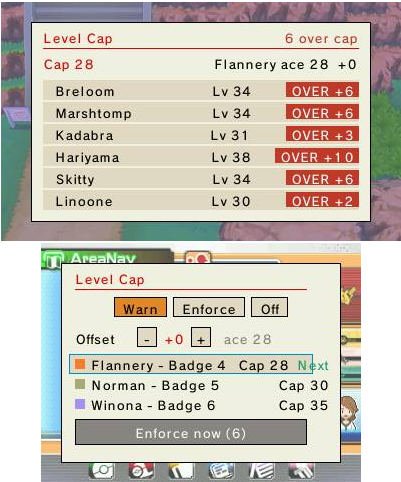
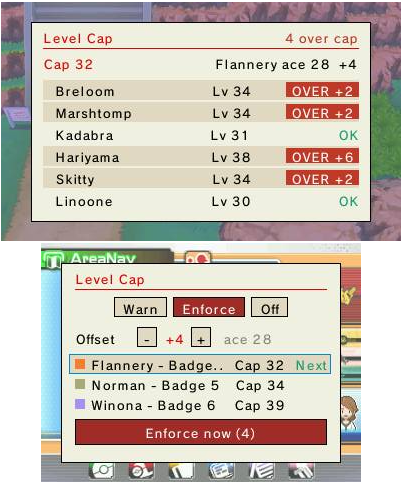
v0.7.7 polish: Level Cap confirm overlay, layout & note fixes
- New custom colored Enforce confirmation (the framework MessageBox
  couldn't color text and clipped it): red header, word-wrapped
  question, colored count->level summary, tappable Yes/No.
- Bottom-screen layout: rule to symmetric margin, Enforce centered,
  Cap column aligned, selection highlight hugs the row, long gym names
  clip so they never overlap the cap.
- Party level/EXP edits route through WritePartyMemberFull (write the
  level tail, not body-only). Toast + (i) note + release notes now
  explain it applies+saves immediately and the on-screen party level
  refreshes after the next battle / PC-box visit.
- (i) note reflowed into shorter paragraphs; Config HUD label is now
  just "Level cap" (dropped "Show:"); confirm string spacing fixed.
- Add the Enforce confirmation screenshot.

diff --git a/Sources/PKHeX.cpp b/Sources/PKHeX.cpp
@@ -894,6 +894,14 @@ namespace CTRPluginFramework {
         // game keeps for menus (writes there never reach the real party/save). All party reads/writes stride
         // by this so both the fixed base (0x1E4) and the fallback scan (0x104) stay self-consistent.
         static u32  gPartyStride = 0x1E4;
+        // The DECRYPTED 0x104-packed MIRROR the game rebuilds for its overworld party MENU on a "party reload"
+        // event (enter/leave a battle, deposit/withdraw at the PC). Our authoritative write (fixed base, 0x1E4)
+        // persists to the save, but the on-screen level/stats read this mirror and stay stale until such an
+        // event — so after a party write we ALSO refresh this mirror so the change shows immediately. It's a
+        // volatile display copy (NOT the save): a wrong write self-heals on the game's next rebuild.
+        static u32  gPartyMirrorBase = 0;      // 0 = not located; located lazily by FindPartyMirrorBase()
+        static bool gPartyMirrorEncrypted = true;
+        static bool gPartyMirrorScanned = false; // scanned once per session (found or not)
         // SAFETY GATE for party identity WRITES (Swap commit into a party slot, Party-edit save-to-party).
         // Fase 1 kept this false to verify the fixed address/stride/encryption read-only. HW-confirmed the
         // reads on 2026-07-06 → Fase 2 flips it true so party writes hit the authoritative party.
@@ -1030,6 +1038,79 @@ namespace CTRPluginFramework {
             }
 
             return 0; // not found
+        }
+
+        // Locate the DECRYPTED 0x104-packed party MIRROR the game keeps for its overworld menu (see gPartyMirrorBase).
+        // Read-only, scanned once per session. Same ±512KB / TID-SID / 0x104-run scan the FindPartyBase fallback uses,
+        // but it runs ALWAYS (independent of the fixed authoritative base) and EXCLUDES the PC box block AND the
+        // authoritative fixed party region, so it lands on the distinct menu mirror. Returns 0 if not present.
+        u32 FindPartyMirrorBase(void) {
+            if (gPartyMirrorScanned) return gPartyMirrorBase;
+            gPartyMirrorScanned = true;
+
+            const u32 boxBase = AutoGameSet((u32)0x8C861C8, (u32)0x8C9E134);
+            const u32 authBase = AutoGameSet((u32)0x8CE1CF8, (u32)0x8CFB26C); // fixed authoritative party to exclude
+            u16 tid = 0, sid = 0;
+            PK6 boxpk;
+            if (GetPokemon(boxBase, &boxpk)) { tid = boxpk.TID; sid = boxpk.SID; }
+            if (tid == 0 && sid == 0) ReadPlayerTrainerID(tid, sid);
+            if (tid == 0 && sid == 0) return 0;
+
+            const u32 SLOT = 0x104;
+            const u32 BOX_SPAN = 31u * 30u * 0xE8;
+            const u32 scanStart = boxBase - 0x80000;
+            const u32 scanEnd   = boxBase + 0x80000;
+            const u32 CHUNK = 0x8000;
+            static u8 buf[CHUNK];
+            static u32 matchAddr[256];
+            static u8  matchEnc[256];
+            int n = 0;
+
+            auto excluded = [&](u32 X) -> bool {
+                if (X >= boxBase && X < boxBase + BOX_SPAN) return true;       // PC box block
+                if (X >= authBase && X < authBase + 6u * 0x1E4) return true;   // authoritative party
+                return false;
+            };
+
+            for (u32 chunk = scanStart; chunk + SLOT < scanEnd && n < 256; chunk += (CHUNK - SLOT)) {
+                if (!Process::CopyMemory(buf, (u8*)chunk, CHUNK)) continue;
+                for (u32 off = 0; off + SLOT <= CHUNK && n < 256; off += 4) {
+                    if (*(u32*)(buf + off) == 0)        continue;
+                    if (*(u16*)(buf + off + 0x04) != 0) continue;
+                    u32 X = chunk + off;
+                    if (excluded(X)) continue;
+                    bool owned = false, enc = false;
+                    u16 sp = *(u16*)(buf + off + 0x08), t = *(u16*)(buf + off + 0x0C), s = *(u16*)(buf + off + 0x0E);
+                    if (sp >= 1 && sp <= 721 && t == tid && s == sid) { owned = true; enc = false; }
+                    if (!owned) { PK6 pk; if (GetPokemon(X, &pk) && pk.TID == tid && pk.SID == sid) { owned = true; enc = true; } }
+                    if (!owned) continue;
+                    matchAddr[n] = X; matchEnc[n] = enc; n++;
+                }
+            }
+
+            // The mirror is the longest run of owned mons at exactly 0x104 stride; tie -> lowest address.
+            auto ownedIdx = [&](u32 a) -> int { for (int k = 0; k < n; k++) if (matchAddr[k] == a) return k; return -1; };
+            int bestIdx = -1, bestRun = 0;
+            for (int i = 0; i < n; i++) {
+                if (ownedIdx(matchAddr[i] + SLOT) < 0) continue;
+                int run = 1;
+                while (run < 6 && ownedIdx(matchAddr[i] + (u32)run * SLOT) >= 0) run++;
+                if (run > bestRun || (run == bestRun && bestIdx >= 0 && matchAddr[i] < matchAddr[bestIdx])) { bestRun = run; bestIdx = i; }
+            }
+            if (bestIdx < 0) return 0; // no 0x104 pair -> no menu mirror in this state; skip (fallback note covers it)
+
+            // Walk backward over contiguous valid PK6 slots (any OT) to land on the mirror's slot 0.
+            gPartyMirrorEncrypted = matchEnc[bestIdx];
+            u32 b = matchAddr[bestIdx];
+            { PK6 tmp;
+              for (int back = 0; back < 6 && b >= scanStart + SLOT; back++) {
+                  u32 prev = b - SLOT;
+                  bool ok = gPartyMirrorEncrypted ? GetPokemon(prev, &tmp) : GetPokemonRaw(prev, &tmp);
+                  if (!(ok && tmp.species >= 1 && tmp.species <= 721)) break;
+                  b = prev;
+              } }
+            gPartyMirrorBase = b;
+            return gPartyMirrorBase;
         }
 
         // Count occupied slots in the overworld party (same source the View Party Summary viewer uses: the
@@ -1176,12 +1257,14 @@ namespace CTRPluginFramework {
         // the change persists to save. An empty/invalid species clears the party-PK6 region of the slot.
         // Tail offsets (plaintext, absolute within the slot) match RefillPartyOverworld: 0xE8 status(u32),
         // 0xEC level(u8), 0xF0 curHP, 0xF2 maxHP, 0xF4 Atk, 0xF6 Def, 0xF8 Spe, 0xFA SpA, 0xFC SpD.
-        static bool WritePartyMemberFull(u32 addr, PK6 &pk) {
+        // Low-level: write ONE 0x104-based party slot (used for both the authoritative party AND the menu mirror).
+        // Body via SetPokemon/SetPokemonRaw (enc-aware) + the recomputed plaintext tail. Empty species clears it.
+        static bool WritePartySlot(u32 addr, PK6 &pk, bool enc) {
             if (pk.species < 1 || pk.species > 721) {
                 static const u8 zero[0x104] = {0};
                 return Process::Patch(addr, (u8*)zero, 0x104); // clear body + stat tail
             }
-            bool ok = gPartyEncrypted ? SetPokemon(addr, &pk) : SetPokemonRaw(addr, &pk); // body [0..0xE7]
+            bool ok = enc ? SetPokemon(addr, &pk) : SetPokemonRaw(addr, &pk); // body [0..0xE7]
             if (!ok) return false;
             int level = LevelFromExp(pk.species, pk.exp);
             u16 st[6]; CalcStats(pk.species, level, pk.nature, pk.iv32, pk.EV, st); // display order HP,Atk,Def,SpA,SpD,Spe
@@ -1195,6 +1278,19 @@ namespace CTRPluginFramework {
             Process::Write16(addr + 0xFA, st[3]);        // SpA
             Process::Write16(addr + 0xFC, st[4]);        // SpD
             return true;
+        }
+        static bool WritePartyMemberFull(u32 addr, PK6 &pk) {
+            bool ok = WritePartySlot(addr, pk, gPartyEncrypted);
+            // Also refresh the game's overworld-menu MIRROR (see gPartyMirrorBase) at the SAME slot, so a level/
+            // stat/species edit shows in the in-game party menu IMMEDIATELY instead of only after the next battle
+            // or PC-box visit. The mirror is a volatile display copy, not the save, so a stray write self-heals.
+            if (ok && PARTY_WRITE_ENABLED && gPartyBase && addr >= gPartyBase && addr < gPartyBase + 6u * gPartyStride) {
+                int slot = (int)((addr - gPartyBase) / gPartyStride);
+                u32 mbase = FindPartyMirrorBase();
+                if (mbase && slot >= 0 && slot < 6)
+                    WritePartySlot(mbase + (u32)slot * 0x104, pk, gPartyMirrorEncrypted);
+            }
+            return ok;
         }
 
         // ---- Pokemon type chips (colored badges). Index 0=None..18=Fairy (matches gMoveExtra / spawnerType1-2). ----
@@ -4186,7 +4282,30 @@ namespace CTRPluginFramework {
             static int viewIdx = 0, viewScroll = 0;
 
             bool wasDown = false, armed = false; UIntVector lastPos = Touch::GetPosition();
+            bool confirming = false; int cfOver = 0, cfCap = 0; // custom colored Enforce confirm overlay
             drainKeys();
+
+            // Draw a list of colored segments centered on `scrW` at row y. Handles our own centering + color
+            // (a plain MessageBox can't color inline and clipped the confirm text).
+            auto centerSegs = [&](const Screen &scr, int scrW, int y, const std::vector<std::pair<string, Color>> &segs) {
+                int w = 0; for (auto &s : segs) w += (int)OSD::GetTextWidth(true, s.first);
+                int x = (scrW - w) / 2;
+                for (auto &s : segs) { scr.DrawSysfont(s.second << s.first, x, y, s.second); x += (int)OSD::GetTextWidth(true, s.first); }
+            };
+            // Word-wrap `s` to lines no wider than maxW px.
+            auto wrapWords = [&](const string &s, int maxW) -> std::vector<string> {
+                std::vector<string> lines; string cur; size_t i = 0;
+                while (i <= s.size()) {
+                    size_t sp = s.find(' ', i);
+                    string word = s.substr(i, sp == string::npos ? string::npos : sp - i);
+                    string cand = cur.empty() ? word : cur + " " + word;
+                    if ((int)OSD::GetTextWidth(true, cand) > maxW && !cur.empty()) { lines.push_back(cur); cur = word; }
+                    else cur = cand;
+                    if (sp == string::npos) break; i = sp + 1;
+                }
+                if (!cur.empty()) lines.push_back(cur);
+                return lines;
+            };
 
             while (true) {
                 Controller::Update();
@@ -4195,6 +4314,49 @@ namespace CTRPluginFramework {
                     while (Controller::IsKeyDown(Key::Select)) { Controller::Update(); OSD::SwapBuffers(); }
                     PluginMenu::Close(); break;
                 }
+
+                // ===== Enforce confirmation overlay (custom, colored, centered) =====
+                if (confirming) {
+                    bool cdown = Touch::IsDown(); if (cdown) lastPos = Touch::GetPosition();
+                    bool ctap = armed && !cdown && wasDown; if (!cdown) armed = true; wasDown = cdown;
+                    const int byY = 152, byH = 40, yesX = 44, yesW = 108, noX = 168, noW = 108;
+                    bool doYes = Controller::IsKeyPressed(Key::A) || (ctap && inBox(lastPos, yesX, byY, yesW, byH));
+                    bool doNo  = Controller::IsKeyPressed(Key::B) || (ctap && inBox(lastPos, noX,  byY, noW,  byH));
+                    if (doYes) {
+                        int n = ClampPartyToCap(cfCap);
+                        string msg = Utils::Format(getLanguage->Get("LC_ENFORCED_FMT").c_str(), n, cfCap);
+                        // Always tell the player how it lands in-game: applied + saved now, but the party menu's
+                        // on-screen level refreshes after the next battle or PC-box visit (the game rebuilds it then).
+                        if (n > 0) msg += string("\n") + getLanguage->Get("LC_APPLIED_NOTE");
+                        OSD::Notify(msg);
+                        confirming = false; drainKeys(); armed = false; wasDown = false;
+                    } else if (doNo) { confirming = false; drainKeys(); armed = false; wasDown = false; }
+
+                    // TOP: a centered modal card with a red header + word-wrapped question + a colored summary.
+                    top.DrawRect(48, 46, 304, 150, bg, true); top.DrawRect(48, 46, 304, 150, enfC, false); top.DrawRect(49, 47, 302, 148, enfC, false);
+                    top.DrawRect(48, 46, 304, 24, enfC, true);
+                    { string t = getLanguage->Get("LC_ENFORCE_TITLE"); top.DrawSysfont(AutoContrastText(enfC) << t, (400 - (int)OSD::GetTextWidth(true, t)) / 2, 51, AutoContrastText(enfC)); }
+                    {
+                        string q = Utils::Format(getLanguage->Get("LC_CONFIRM_ENFORCE_FMT").c_str(), cfOver, cfCap);
+                        for (size_t p; (p = q.find("\\n")) != string::npos; ) q.replace(p, 2, " "); // flatten stored breaks; we wrap ourselves
+                        std::vector<string> ln = wrapWords(q, 272);
+                        int y = 84; for (size_t i = 0; i < ln.size() && i < 3; ++i) { top.DrawSysfont(txt << ln[i], (400 - (int)OSD::GetTextWidth(true, ln[i])) / 2, y, txt); y += 18; }
+                    }
+                    centerSegs(top, 400, 150, { {to_string(cfOver), overC}, {"  >  ", mutedC}, {string("Lv ") + to_string(cfCap), okC} });
+
+                    // BOTTOM: big Yes / No buttons (tappable) + key hints.
+                    bot.DrawRect(20, 20, 280, 200, bg, true); bot.DrawRect(20, 20, 280, 200, border, false);
+                    bot.DrawSysfont(title << getLanguage->Get("LC_ENFORCE_TITLE"), 34, 40, title);
+                    { Color etc = AutoContrastText(okC); bot.DrawRect(yesX, byY, yesW, byH, okC, true); bot.DrawRect(yesX, byY, yesW, byH, border, false);
+                      string y = getLanguage->Get("NOTE_YES"); bot.DrawSysfont(etc << y, yesX + (yesW - (int)OSD::GetTextWidth(true, y)) / 2, byY + 13, etc); }
+                    { Color ntc = AutoContrastText(mutedC); bot.DrawRect(noX, byY, noW, byH, mutedC, true); bot.DrawRect(noX, byY, noW, byH, border, false);
+                      string nn = getLanguage->Get("NOTE_NO"); bot.DrawSysfont(ntc << nn, noX + (noW - (int)OSD::GetTextWidth(true, nn)) / 2, byY + 13, ntc); }
+                    { string h = "A / B"; bot.DrawSysfont(mutedC << h, (320 - (int)OSD::GetTextWidth(true, h)) / 2, byY + byH + 6, mutedC); }
+
+                    OSD::SwapBuffers();
+                    continue;
+                }
+
                 if (Controller::IsKeyPressed(Key::B)) break;
 
                 // Offset quick-adjust with the D-pad too (touch buttons below do the same). Offset is stored
@@ -4259,7 +4421,7 @@ namespace CTRPluginFramework {
                 { int gap = 6, tot = 0; for (int i = 0; i < 3; ++i) { pillW[i] = (int)OSD::GetTextWidth(true, getLanguage->Get(modes[i].key)) + 18; tot += pillW[i]; } tot += gap * 2;
                   int sx = 20 + (280 - tot) / 2; for (int i = 0; i < 3; ++i) { pillX[i] = sx; sx += pillW[i] + gap; } }
                 const int offY = 84, minusX = 96, plusX = 150, offBtnW = 20;
-                const int enfX = 34, enfY = 176, enfW = 232, enfH = 26;
+                const int enfX = 34, enfY = 176, enfW = 252, enfH = 26; // 252 = 34..286 (symmetric 14px margins) -> centered on the 280-wide panel
                 bool enfActive = (g_levelCapMode == 1 && over > 0 && cap > 0);
 
                 // ---- input: touch ----
@@ -4271,11 +4433,8 @@ namespace CTRPluginFramework {
                     if (inBox(lastPos, plusX,  offY, offBtnW, 20) && g_levelCapOffset < 16) SetLevelCapOffset(g_levelCapOffset + 1);
                     for (int r = 0; r < GVIS && r < nUp; ++r) { int gy = GY0 + r * GRH; if (inBox(lastPos, 28, gy - 1, 244, GRH)) viewIdx = viewScroll + r; }
                     if (enfActive && inBox(lastPos, enfX, enfY, enfW, enfH)) {
-                        string q = Utils::Format(getLanguage->Get("LC_CONFIRM_ENFORCE_FMT").c_str(), over, cap);
-                        if (MessageBox(CenterAlign(q), DialogType::DialogYesNo, ClearScreen::Both)()) {
-                            int n = ClampPartyToCap(cap);
-                            OSD::Notify(Utils::Format(getLanguage->Get("LC_ENFORCED_FMT").c_str(), n, cap));
-                        }
+                        // Open the custom colored confirm overlay (handled at the top of the loop).
+                        confirming = true; cfOver = over; cfCap = cap;
                         drainKeys(); armed = false; wasDown = false;
                     }
                 }
@@ -4327,7 +4486,7 @@ namespace CTRPluginFramework {
                 // ---- BOTTOM: manager (mode pills, offset stepper, upcoming-gym caps, Enforce) ----
                 bot.DrawRect(20, 20, 280, 200, bg, true); bot.DrawRect(20, 20, 280, 200, border, false);
                 bot.DrawSysfont(title << getLanguage->Get("LEVEL_CAP"), 34, 28, title);
-                bot.DrawRect(34, 46, 232, 1, title, true);
+                bot.DrawRect(34, 46, 252, 1, title, true); // extend to a symmetric right margin (x34..286)
                 for (int i = 0; i < 3; ++i) {
                     bool on = ((int)g_levelCapMode == i);
                     Color fill = on ? modes[i].col : bg2;
@@ -4347,21 +4506,33 @@ namespace CTRPluginFramework {
 
                 // upcoming gyms + their own caps (auto ace + offset); the real NEXT one is fill+tagged, the
                 // BROWSED one (D-Pad Up/Down or tap) gets a selection outline - both can be the same row.
+                // "Cap NN" right-aligns to a FIXED column across all rows (capRightX); the "Next" tag (next row
+                // only) sits to its RIGHT at the panel edge so it never shoves the cap number. The selection
+                // highlight/outline hugs the row's rightmost text instead of a fixed band.
+                const int capRightX = 244, nextRightX = 286;
                 for (int r = 0; r < GVIS && r < nUp; ++r) {
                     int li = viewScroll + r; if (li >= nUp) break;
                     int ti = upList[li], gy = GY0 + r * GRH;
                     bool isNext = (ti == nextTi); bool isViewed = (li == viewIdx);
-                    if (isNext) bot.DrawRect(28, gy - 1, 244, GRH, bg2, true);
-                    if (isViewed) bot.DrawRect(28, gy - 1, 244, GRH, sel, false);
+                    string nx = getLanguage->Get("GYM_COACH_NEXT");
+                    int hiRight = isNext ? nextRightX : capRightX;          // right edge of the last drawn text on this row
+                    int hiX = 28, hiW = (hiRight + 4) - hiX;                // hug the content (+4px pad), start at x28
+                    if (isNext)   bot.DrawRect(hiX, gy - 1, hiW, GRH, bg2, true);
+                    if (isViewed) bot.DrawRect(hiX, gy - 1, hiW, GRH, sel, false);
                     bot.DrawRect(34, gy + 4, 10, 10, TypeColor(gymTrainerType[ti]), true);
                     string suffix = (gymTrainerKind[ti] == 0) ? Utils::Format(getLanguage->Get("GYM_COACH_BADGE_FMT").c_str(), gymTrainerOrder[ti]) : getLanguage->Get("GYM_COACH_CHAMPION");
                     string nm = string(gymTrainerNames[ti]) + " - " + suffix;
-                    bot.DrawSysfont(txt << nm, 50, gy + 2, txt);
                     int c2 = LevelCapAceOf(ti) + offVal; if (c2 < 1) c2 = 1; if (c2 > 100) c2 = 100;
-                    int rightX = 288;
-                    if (isNext) { string nx = getLanguage->Get("GYM_COACH_NEXT"); bot.DrawSysfont(okC << nx, rightX - (int)OSD::GetTextWidth(true, nx), gy + 2, okC); rightX -= (int)OSD::GetTextWidth(true, nx) + 8; }
                     string caps = getLanguage->Get("LC_CAP") + " " + to_string(c2);
-                    bot.DrawSysfont(txt << caps, rightX - (int)OSD::GetTextWidth(true, caps), gy + 2, txt);
+                    // Clip a long trainer name (e.g. "Tate and Liza - Badge 7") so it never overlaps the cap column.
+                    int nameMax = (capRightX - (int)OSD::GetTextWidth(true, caps)) - 8 - 50;
+                    if ((int)OSD::GetTextWidth(true, nm) > nameMax) {
+                        while (nm.size() > 4 && (int)OSD::GetTextWidth(true, nm + "..") > nameMax) nm.pop_back();
+                        nm += "..";
+                    }
+                    bot.DrawSysfont(txt << nm, 50, gy + 2, txt);
+                    bot.DrawSysfont(txt << caps, capRightX - (int)OSD::GetTextWidth(true, caps), gy + 2, txt);
+                    if (isNext) bot.DrawSysfont(okC << nx, nextRightX - (int)OSD::GetTextWidth(true, nx), gy + 2, okC);
                 }
 
                 {
@@ -8019,7 +8190,11 @@ namespace CTRPluginFramework {
         bool HandlePokemonData(PK6 &pokemon, MenuEntry *entry, const function<bool(PK6&)> &processFunc, const function<string()> &getMessage) {
             if (VerifyPokemonData(CurrentPtr(), &pokemon)) {
                 if (processFunc(pokemon)) {
-                    bool wrote = (gPartyMode && !gPartyEncrypted) ? SetPokemonRaw(CurrentPtr(), &pokemon) : SetPokemon(CurrentPtr(), &pokemon);
+                    // For a live party slot, write the FULL member (EK6 body + recomputed level/stat tail +
+                    // the menu mirror) so the edit shows in-game - NOT a body-only SetPokemon that leaves the
+                    // 0xEC level/stat tail stale. The PC box keeps the plain box write.
+                    bool wrote = gPartyMode ? WritePartyMemberFull(CurrentPtr(), pokemon)
+                                            : SetPokemon(CurrentPtr(), &pokemon);
 
                     if (wrote) {
                         string msg = getMessage();

diff --git a/README.pt-BR.md b/README.pt-BR.md
@@ -179,7 +179,12 @@ joga.
 
 <p align="center">
   <img src="Screenshots/v0.7.7/level_cap.png" width="330" alt="Limite de Nível — a equipe contra o ás do próximo ginásio, e o gerenciador Avisar/Forçar" />
+  <img src="Screenshots/v0.7.7/level_cap_enforce.png" width="330" alt="Limite de Nível — a confirmação do Forçar, mostrando quantos Pokémon caem e para qual nível" />
 </p>
+
+O Forçar **aplica e salva na hora** (só nível e atributos caem); o número mostrado no menu da party in-game
+atualiza após a sua próxima batalha ou uma visita à box do PC. Para o aviso ao vivo no HUD, ligue
+**Level cap** em Screen Overlays → Config HUD.
 
 ### Vença a batalha
 

diff --git a/README.md b/README.md
@@ -176,7 +176,12 @@ over-cap count while you play.
 
 <p align="center">
   <img src="Screenshots/v0.7.7/level_cap.png" width="330" alt="Level Cap — party vs. the next gym's ace level, and the Warn/Enforce manager" />
+  <img src="Screenshots/v0.7.7/level_cap_enforce.png" width="330" alt="Level Cap — the Enforce confirmation, showing how many Pokémon drop and to what level" />
 </p>
+
+Enforce **applies and saves right away** (only level and stats drop); the number shown in your in-game party
+menu refreshes after your next battle or a PC-box visit. For the live over-cap warning on the HUD, turn on
+**Level cap** in Screen Overlays → Config HUD.
 
 ### Win the battle
 
